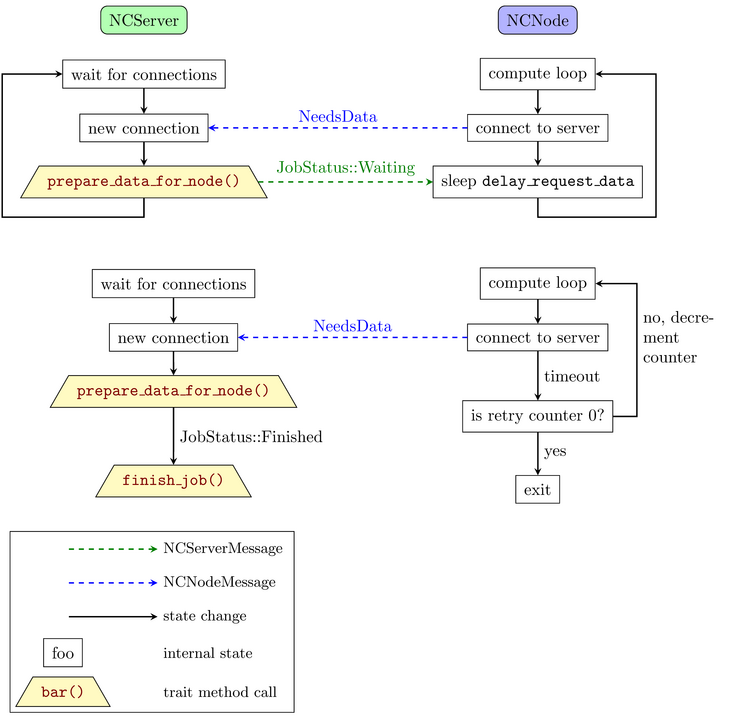
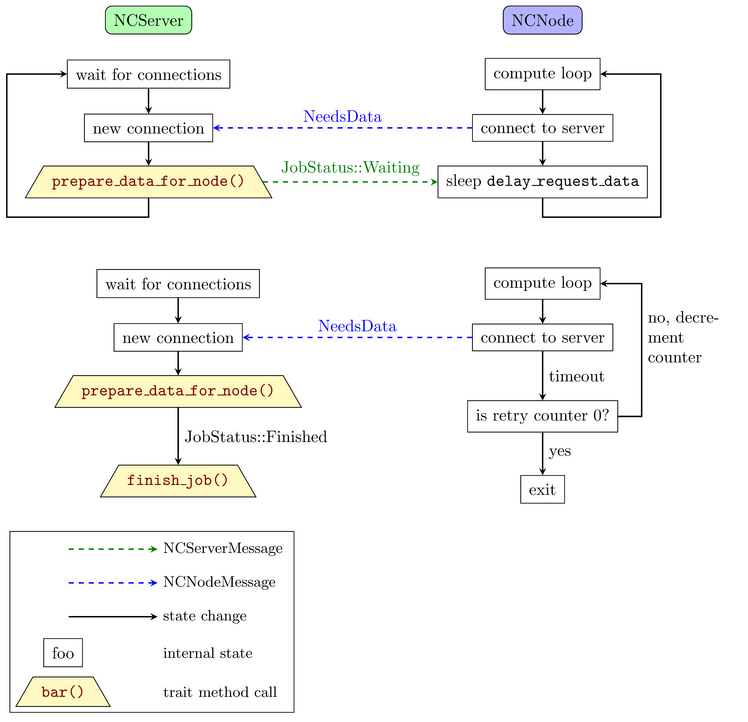
Increase left white outer border

diff --git a/diagrams/03_finish.tex b/diagrams/03_finish.tex
@@ -72,11 +72,11 @@
     \node at (0, -13.0) {};
 
     % Add left page border with invisible node
-    \node at (-6.9, 0) {};
+    \node at (-7.0, 0) {};
 
     \matrix [column sep=10mm, row sep=2.0mm, rectangle, draw=black,
              column 2/.style={anchor=west}
-        ] at (-3.8, -11.0) {
+        ] at (-3.9, -11.0) {
         \node (label1a) {}; & \node [font=\small] (label1b) {NCServerMessage}; \\
         \node (label2a) {}; & \node [font=\small] (label2b) {NCNodeMessage}; \\
         \node (label3a) {}; & \node [font=\small] (label3b) {state change}; \\
